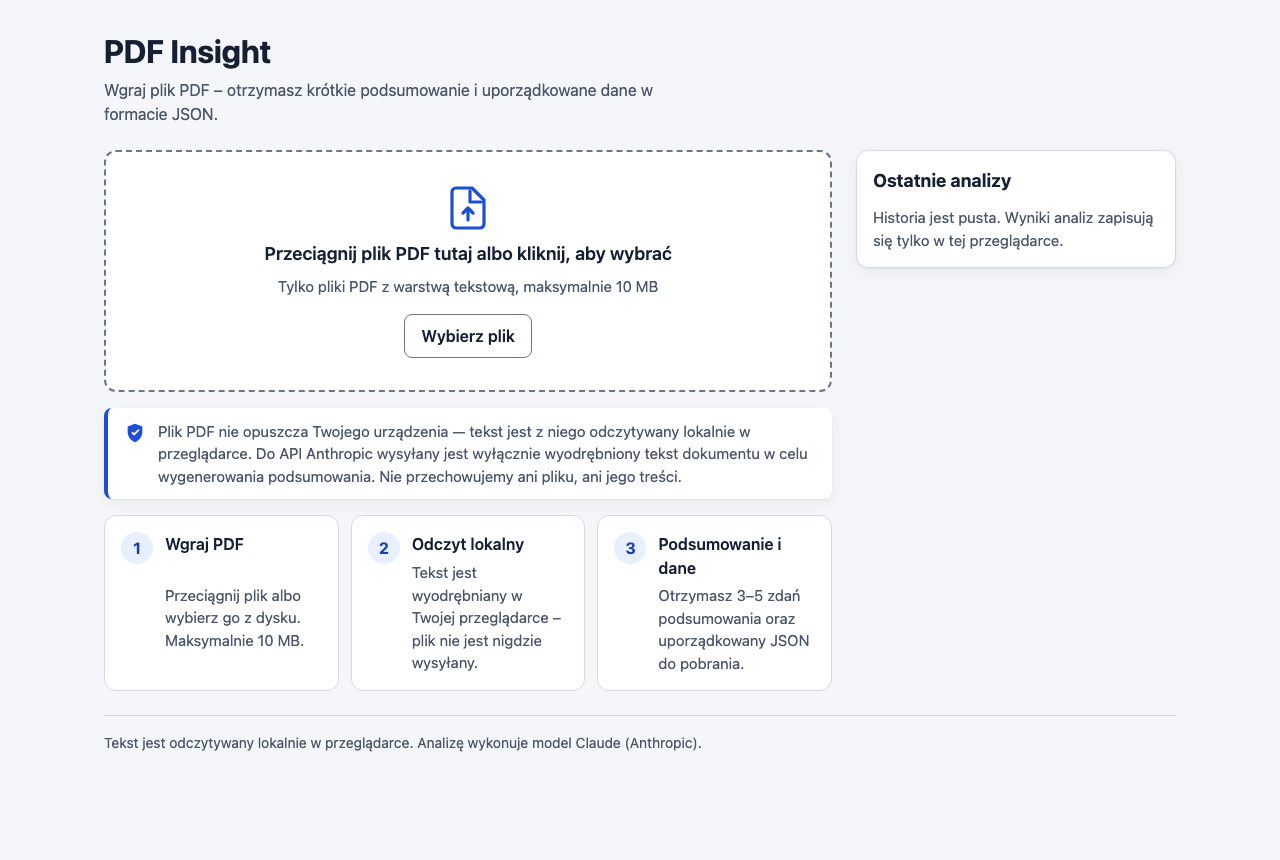
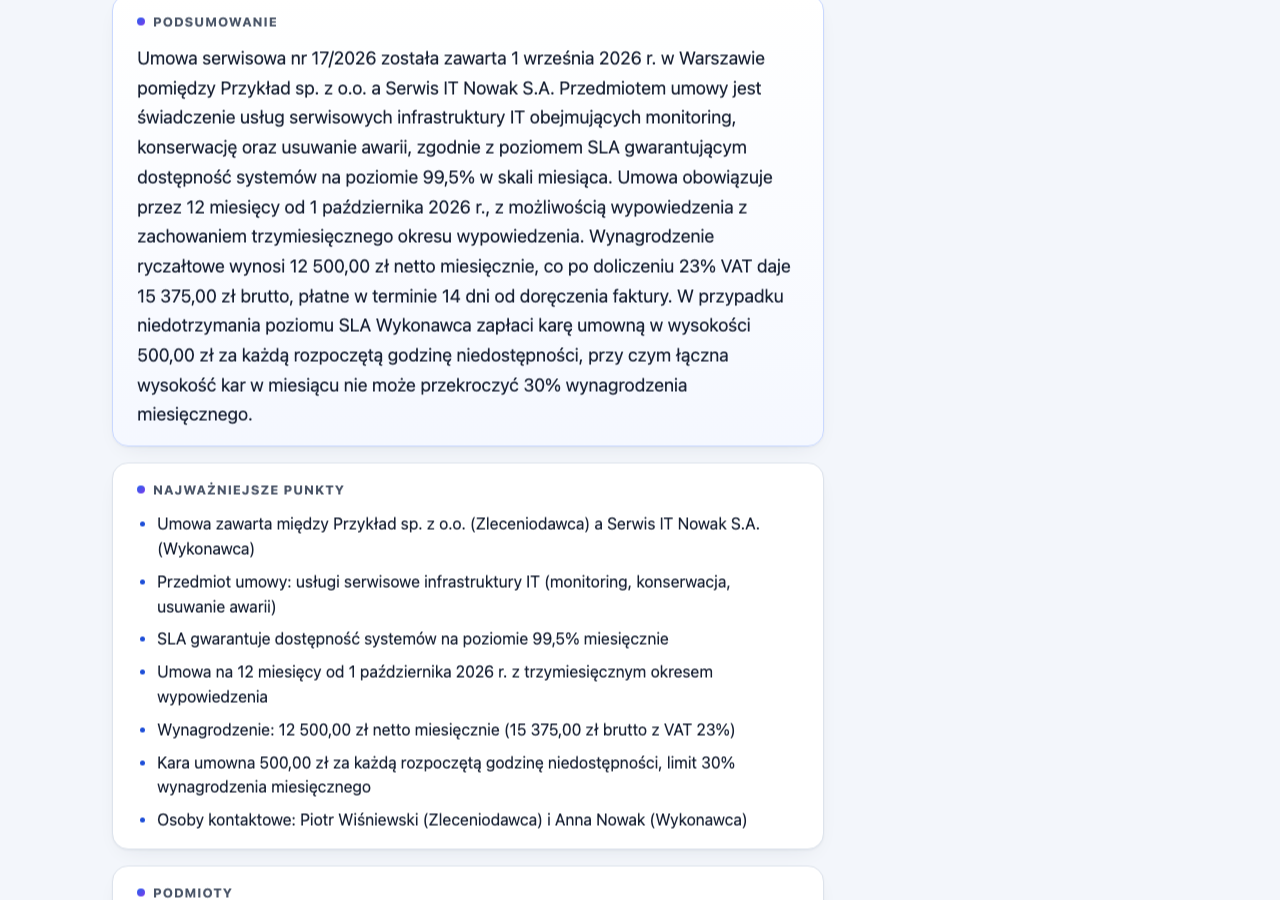
docs: replace screenshots with live analysis results

Changed region(s): [[0.0625, 0.0, 0.6562, 0.9372], [0.6875, 0.1814, 0.9062, 0.3023], [0.0938, 0.9674, 0.1875, 0.9977]]

diff --git a/README.md b/README.md
@@ -8,7 +8,9 @@ na stanowisko **Vibe Coder**.
 
 **https://lukas752.github.io/pdf-insight/**
 
-![Zrzut ekranu PDF Insight – ekran główny demo](docs/screenshot.png)
+![Zrzut ekranu PDF Insight – ekran główny z wynikiem analizy umowy](docs/screenshot.png)
+
+![Zrzut ekranu PDF Insight – karta dokumentu, podsumowanie i najważniejsze punkty](docs/screenshot-result.png)
 
 Jak sprawdzić w 30 sekund: otwórz link, przeciągnij dowolny PDF z warstwą tekstową (umowa, faktura,
 raport – po polsku lub po angielsku), poczekaj kilka sekund, kliknij **Pobierz JSON**.
